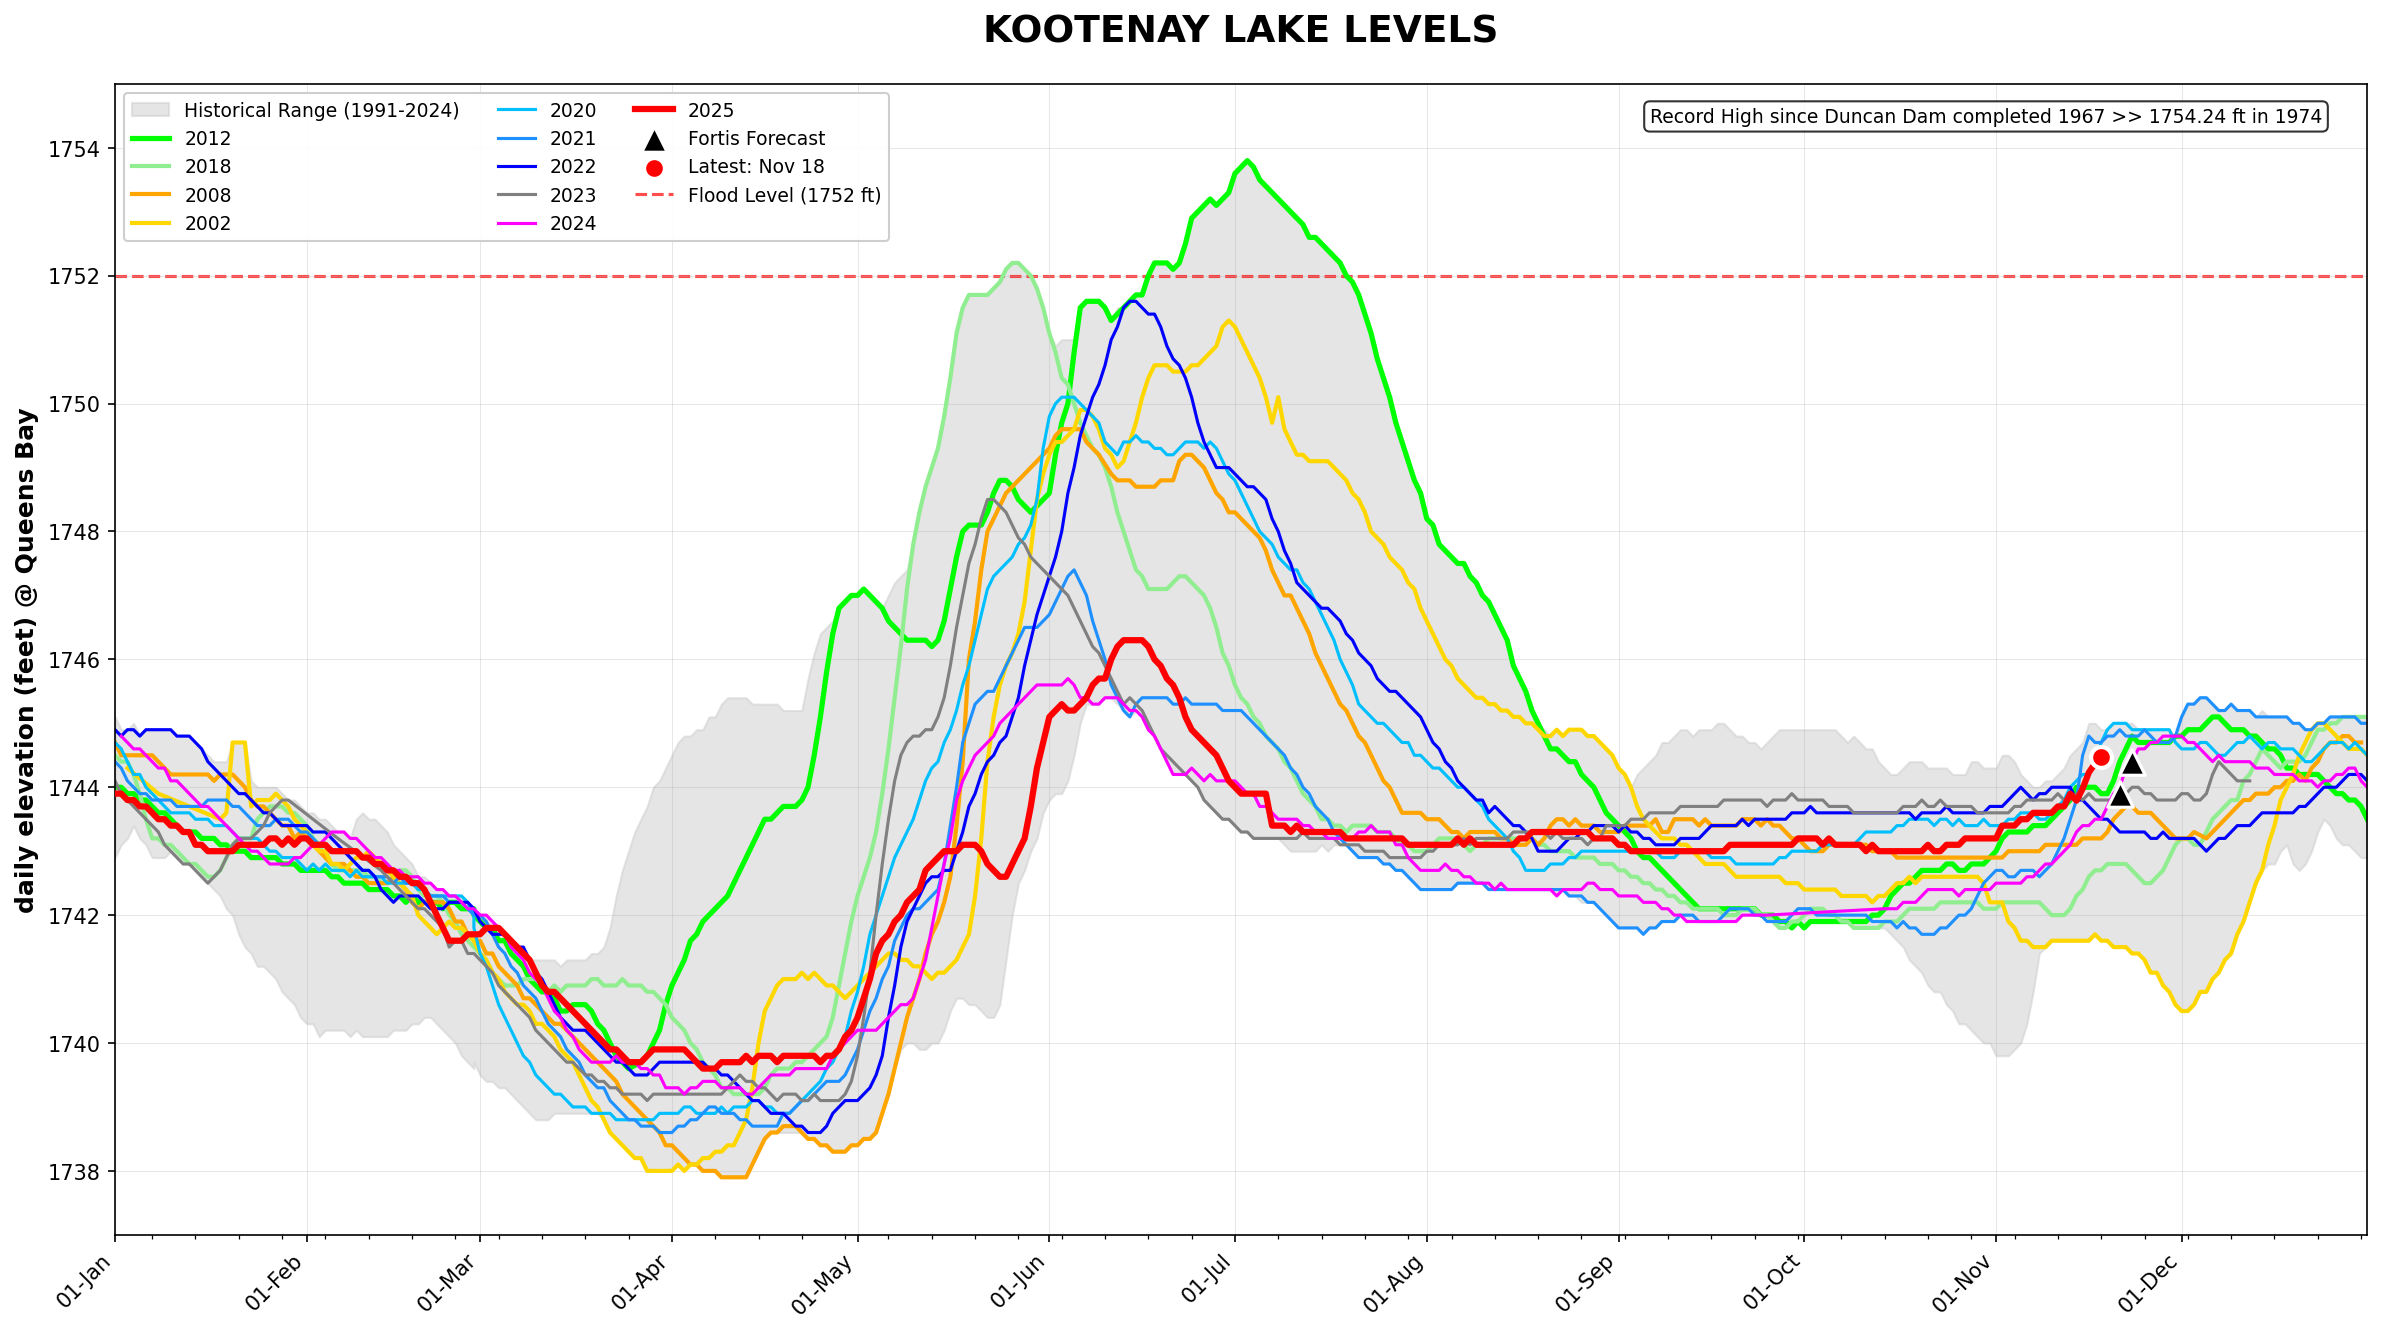
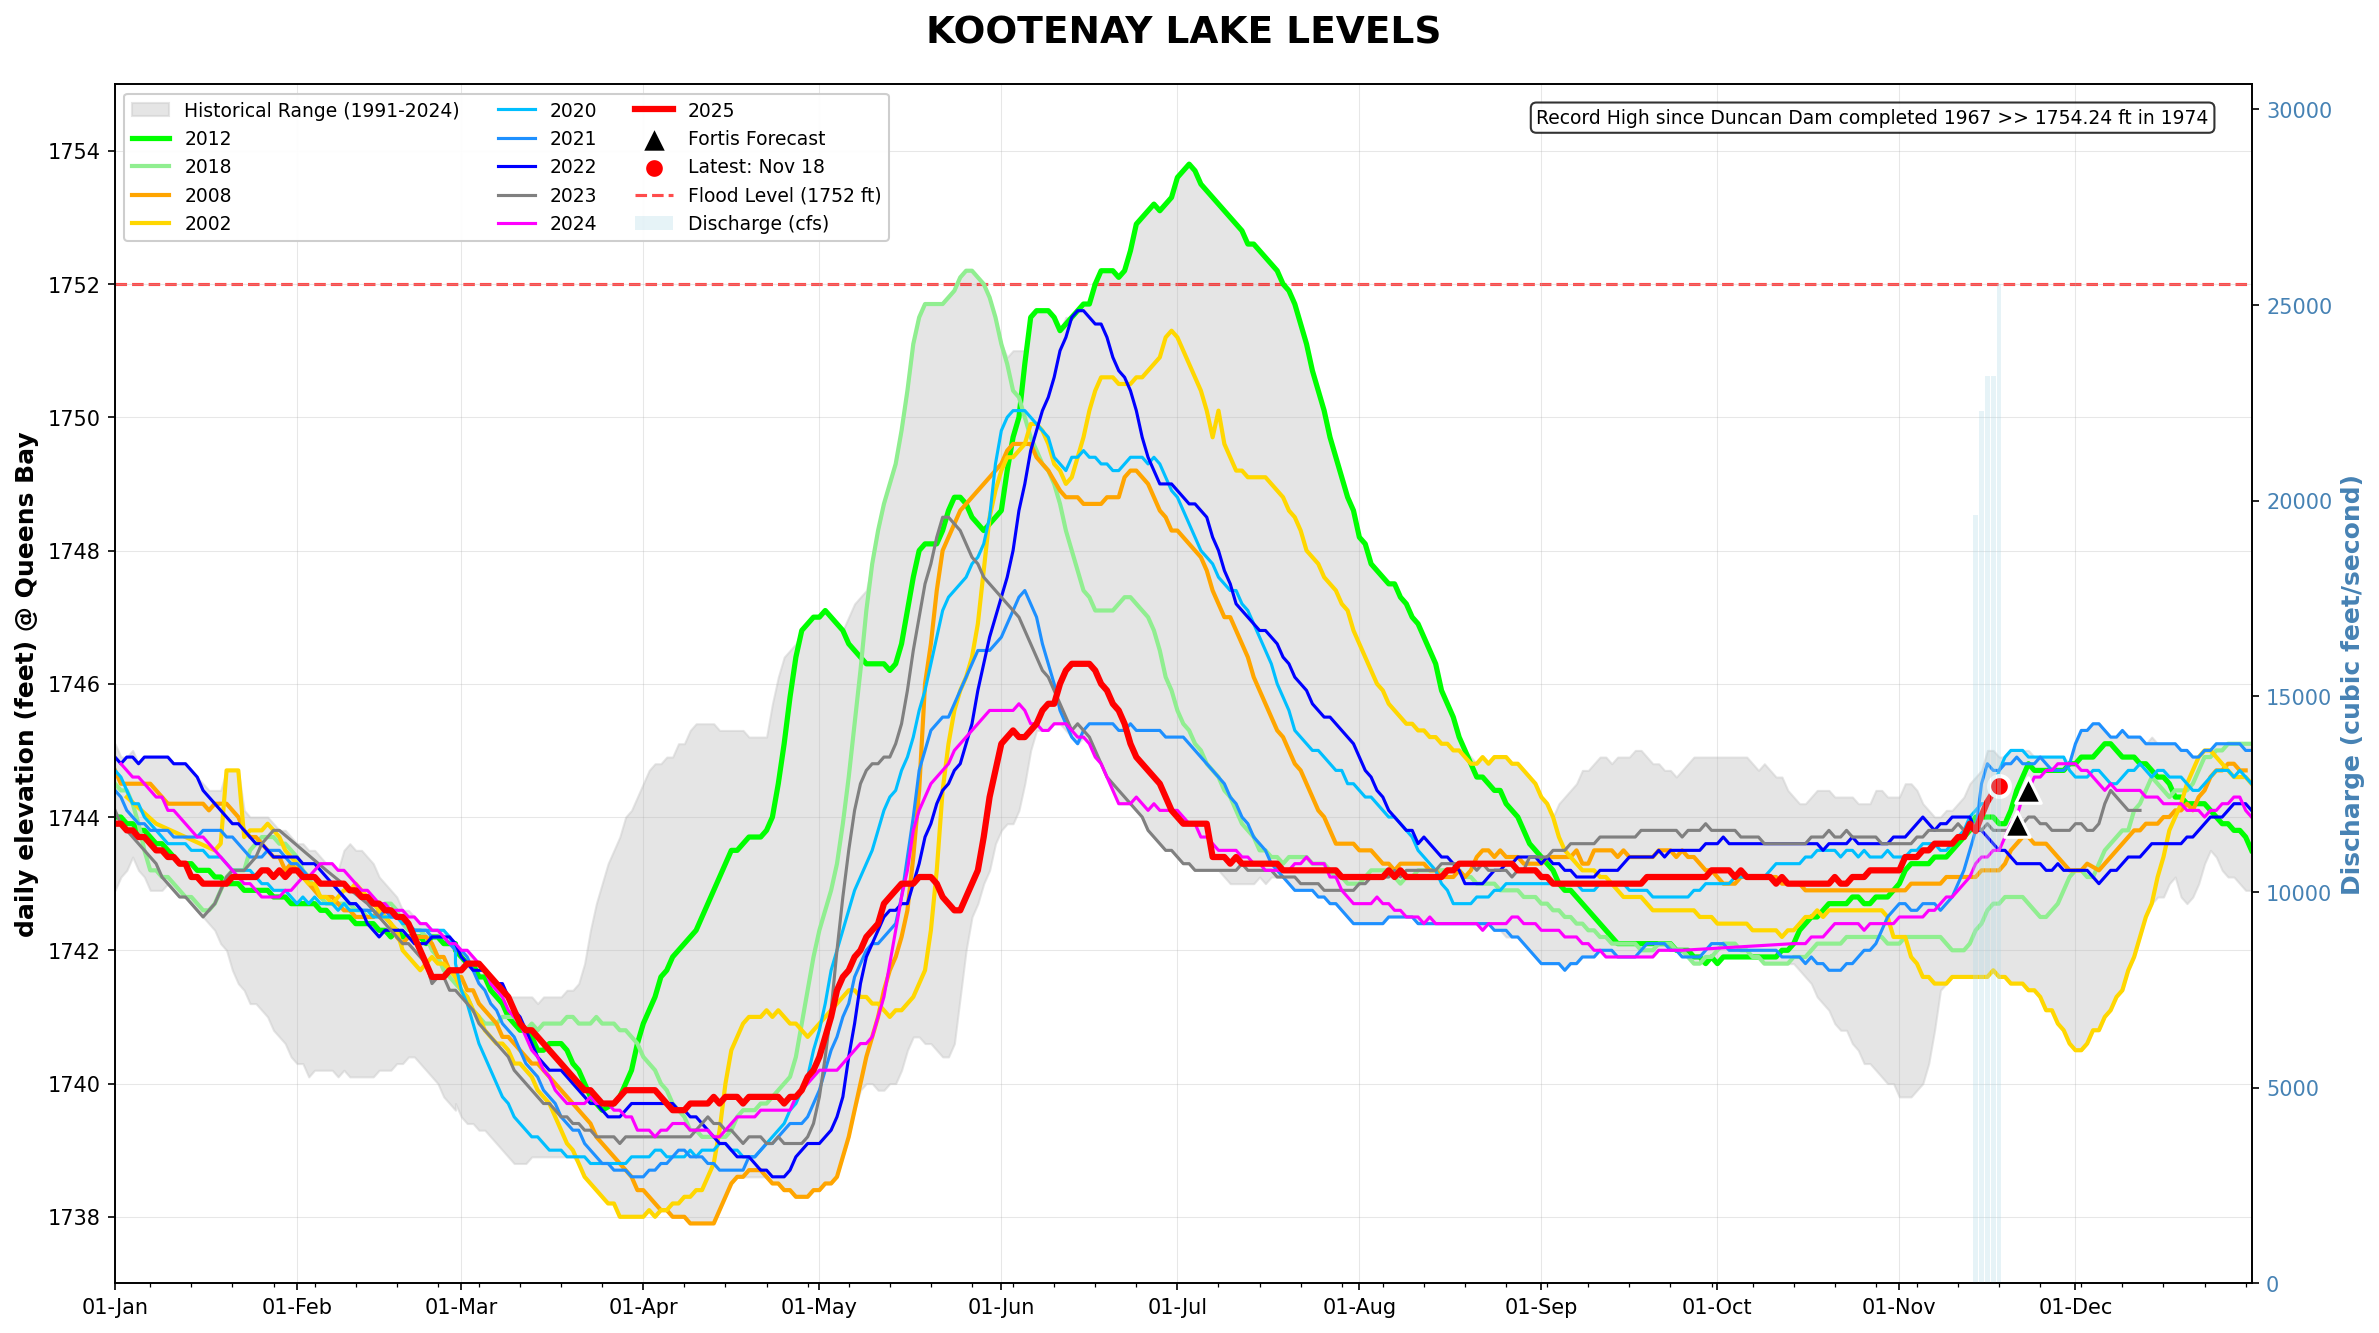
Update 2025-11-18 20:02

diff --git a/public/lake.html b/public/lake.html
@@ -144,7 +144,7 @@
           <div class="data-card-value">1744.47</div>
           <div class="data-card-unit">feet</div>
           <div class="data-card-subtext">(531.71 m)</div>
-          <div class="data-card-subtext">Updated: Nov 18 2025 11:10:01</div>
+          <div class="data-card-subtext">Updated: Nov 18 2025 11:51:03</div>
         </div>
 
         <div class="data-card">
@@ -152,7 +152,7 @@
           <div class="data-card-value">1743.74</div>
           <div class="data-card-unit">feet</div>
           <div class="data-card-subtext">(531.49 m)</div>
-          <div class="data-card-subtext">Updated: Nov 18 2025 11:10:01</div>
+          <div class="data-card-subtext">Updated: Nov 18 2025 11:51:03</div>
         </div>
 
         <div class="data-card">
@@ -173,7 +173,7 @@
       </div>
       
       <div class="chart-section">
-        <h2>Historical Lake Level Trend</h2>
+        <h2>Historical Lake Level Trend with Discharge Data</h2>
         <div class="chart-container">
           <img src="lake_chart_2025-11-18.png" alt="Kootenay Lake Level Chart">
         </div>
@@ -181,7 +181,7 @@
       
       <div class="update-info">
         <p><strong>Data Source:</strong> FortisBC</p>
-        <p><strong>Updated:</strong> November 18, 2025 at 11:16 AM PST</p>
+        <p><strong>Updated:</strong> November 18, 2025 at 12:02 PM PST</p>
         <p>Chart updates daily at 6 AM PST</p>
       </div>
     </div>
